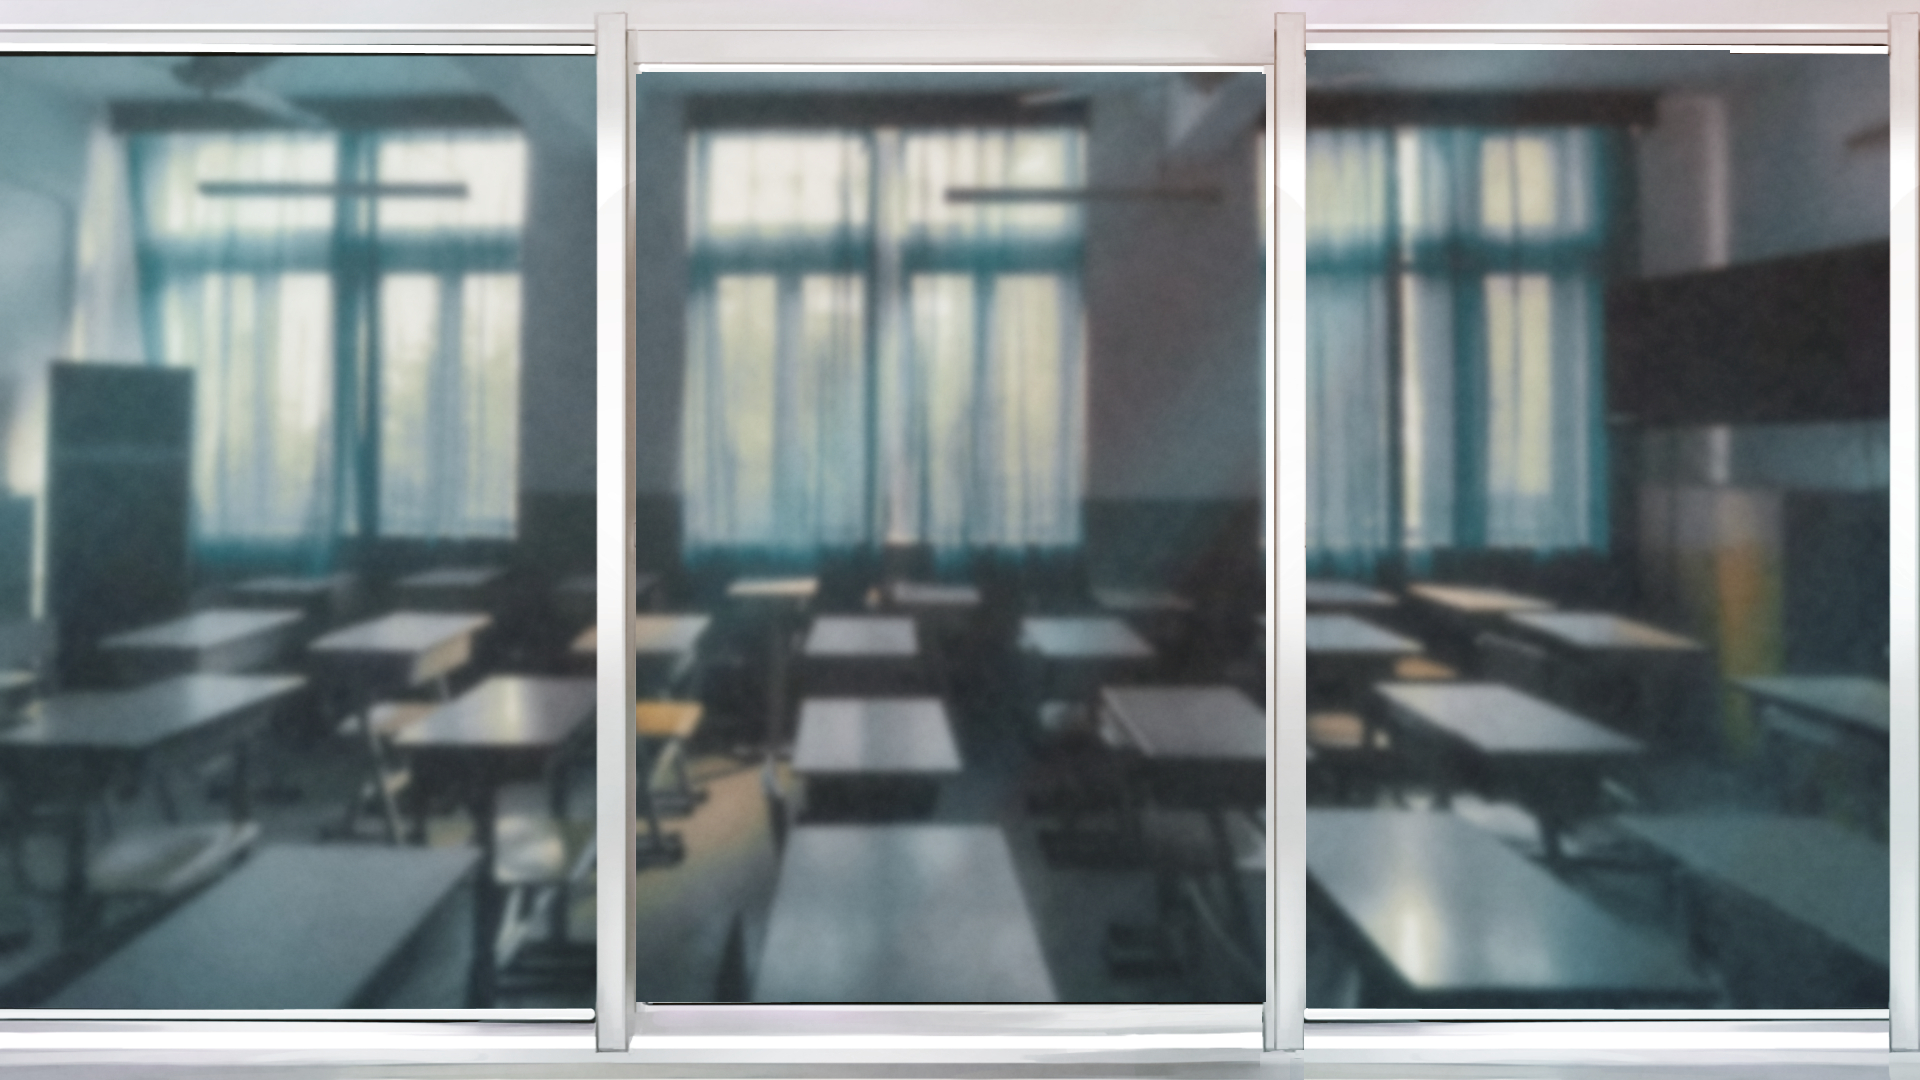
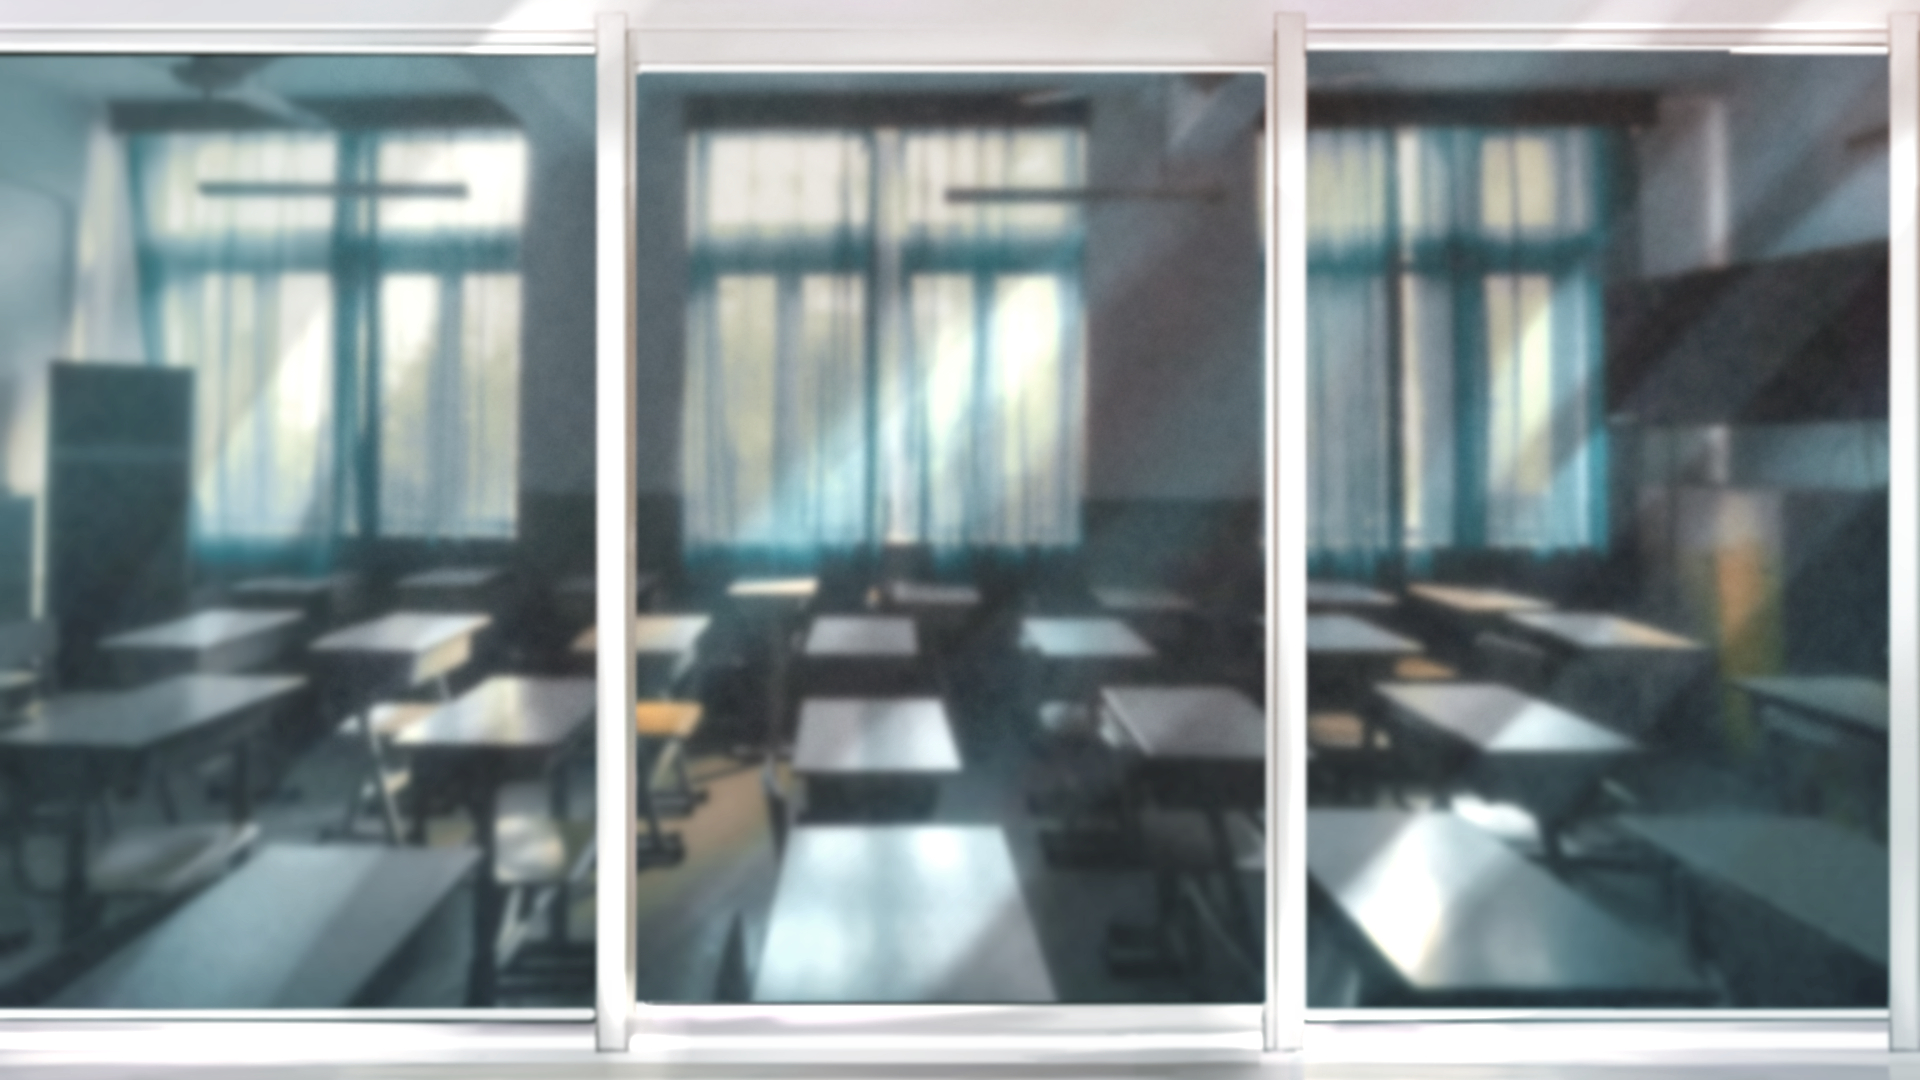
整合map和preduce

diff --git a/map.html b/map.html
@@ -12,10 +12,27 @@
   <link href="https://fonts.googleapis.com/css2?family=LXGW+WenKai+Mono+TC:wght@300;400;700&family=Noto+Sans+TC:wght@100..900&display=swap" rel="stylesheet">
   <link rel="stylesheet" href="css/main.css">
   <link rel="stylesheet" href="css/map.css">
+  <link rel="stylesheet" href="css/dialogue.css">
 </head>
 
 <body>
-  <div class="map-container">
+  <div id="mapIntro" class="scene-container">
+    <div class="background-layer">
+      <img id="bg" src="assets/images/gate.png" alt="">
+    </div>
+    <div class="character-layer"></div>
+    <div class="dialogue-layer">
+      <div class="dialogue-box">
+        <div class="dialogue-header"><span id="name"></span></div>
+        <div id="text" class="dialogue-text"></div>
+        <div class="control-area">
+          <button id="nextBtn" class="next-btn" type="button" aria-label="下一句"><i class="fa-solid fa-play" aria-hidden="true"></i></button>
+        </div>
+      </div>
+    </div>
+  </div>
+
+  <div id="mapContent" class="map-container location-page-content is-hidden">
     <div class="map-header">
       <h1>校園地圖</h1>
       <hr class="my-3 text-light">
@@ -32,7 +49,9 @@
   <script src="js/utils.js"></script>
   <script src="js/settings.js"></script>
   <script src="js/config.js"></script>
+  <script src="js/dialogue.js"></script>
   <script src="js/map.js"></script>
+  <script src="js/map-intro.js"></script>
 
 </body>
 

diff --git a/js/playground.js b/js/playground.js
@@ -1,26 +1,26 @@
-// 初始化
-async function init() {
-  // 從 localStorage 讀取資料
+async function initPlayground() {
   const name = localStorage.getItem('playerName');
   const role = localStorage.getItem('playerRole') || 'default';
   const className = localStorage.getItem('playerClass');
-
   const dialogue = new DialogueCore({
     container: '.scene-container',
-    data: 'data/precede.json',
+    data: 'data/map_intro.json',
     role,
     playerInfo: { name, className, role },
     reuseExistingLayout: true,
     onFinish: () => {
-      const currentPage = window.location.pathname.split('/').pop();
-      if (currentPage === 'playground.html') {
-        localStorage.setItem('ymsh:playgroundEgg', 'true');
-      }
+      localStorage.setItem('ymsh:playgroundEgg', 'true');
+      sessionStorage.setItem('ymsh:mapIntroSeen', 'true');
       fadeTo('map.html');
     }
   });
 
-  await dialogue.init();
+  try {
+    await dialogue.init();
+  } catch (error) {
+    console.error('Playground dialogue failed:', error);
+    window.location.href = 'map.html';
+  }
 }
 
-init();
+initPlayground();

diff --git a/js/map-intro.js b/js/map-intro.js
@@ -1,0 +1,36 @@
+async function initMapIntro() {
+  const introSeenKey = 'ymsh:mapIntroSeen';
+
+  function showMap() {
+    sessionStorage.setItem(introSeenKey, 'true');
+    document.getElementById('mapIntro')?.remove();
+    document.getElementById('mapContent')?.classList.remove('is-hidden');
+    window.dispatchEvent(new Event('ymsh:map-revealed'));
+  }
+
+  if (sessionStorage.getItem(introSeenKey) === 'true') {
+    showMap();
+    return;
+  }
+
+  const name = localStorage.getItem('playerName');
+  const role = localStorage.getItem('playerRole') || 'default';
+  const className = localStorage.getItem('playerClass');
+  const dialogue = new DialogueCore({
+    container: '#mapIntro',
+    data: 'data/map_intro.json',
+    role,
+    playerInfo: { name, className, role },
+    reuseExistingLayout: true,
+    onFinish: showMap
+  });
+
+  try {
+    await dialogue.init();
+  } catch (error) {
+    console.error('Map intro failed:', error);
+    showMap();
+  }
+}
+
+initMapIntro();

diff --git a/index.html b/index.html
@@ -46,7 +46,7 @@
       <div class="input-group input-group-lg mt-4">
         <input id="playerName" type="text" class="form-control" placeholder="請輸入您的姓名" aria-label="Recipient’s username"
           aria-describedby="submitName">
-        <a id="submitName" class="btn btn-primary" type="button" href="preduce.html">確認</a>
+        <a id="submitName" class="btn btn-primary" type="button" href="map.html">確認</a>
       </div>
     </div>
   </div>
@@ -164,7 +164,8 @@
         localStorage.setItem('playerName', name); // 沒找到就沿用輸入值
       }
 
-      window.location.href = 'preduce.html';
+      sessionStorage.removeItem('ymsh:mapIntroSeen');
+      window.location.href = 'map.html';
     });
 
 

diff --git a/playground.html b/playground.html
@@ -22,7 +22,7 @@
 
 </head>
 
-<body id="preduce">
+<body id="playground">
   <a class="map-return-button" href="map.html" aria-label="返回校園地圖" title="返回校園地圖"><i class="fa-solid fa-map" aria-hidden="true"></i></a>
   <div>
     <div class="snow-container"></div>
@@ -56,7 +56,7 @@
   <script src="js/utils.js"></script>
   <script src="js/settings.js"></script>
   <script src="js/dialogue.js"></script>
-  <script src="js/preduce.js"></script>
+  <script src="js/playground.js"></script>
   <script src="https://cdn.jsdelivr.net/npm/bootstrap@5.3.5/dist/js/bootstrap.bundle.min.js"
     integrity="sha384-k6d4wzSIapyDyv1kpU366/PK5hCdSbCRGRCMv+eplOQJWyd1fbcAu9OCUj5zNLiq"
     crossorigin="anonymous"></script>

diff --git a/js/map.js b/js/map.js
@@ -29,6 +29,7 @@ document.addEventListener('DOMContentLoaded', function() {
     createLocationMarkers();
     positionLocationMarkers();
     window.addEventListener('resize', positionLocationMarkers);
+    window.addEventListener('ymsh:map-revealed', positionLocationMarkers);
     campusMap?.addEventListener('load', positionLocationMarkers);
 
     function createLocationMarkers() {

diff --git a/js/begin.js b/js/begin.js
@@ -2,7 +2,7 @@
 async function init() {
   const dialogue = new DialogueCore({
     container: '.scene-container',
-    data: 'data/precede.json',
+    data: 'data/map_intro.json',
     dialogueKey: 'warning',
     reuseExistingLayout: true,
     onFinish: () => fadeTo('gate.html')

diff --git a/css/map.css b/css/map.css
@@ -341,3 +341,8 @@
     transform: translate(-50%, -50%) scale(1);
   }
 }
+
+/* Markers are positioned only after the dialogue layer is removed. */
+.location-marker {
+  animation: none;
+}
